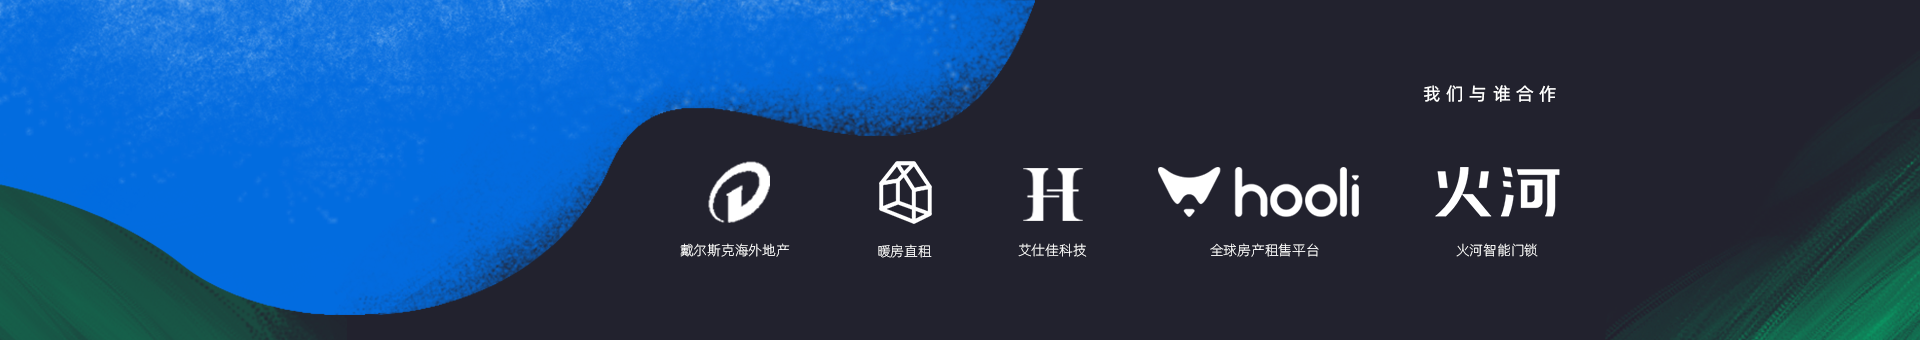
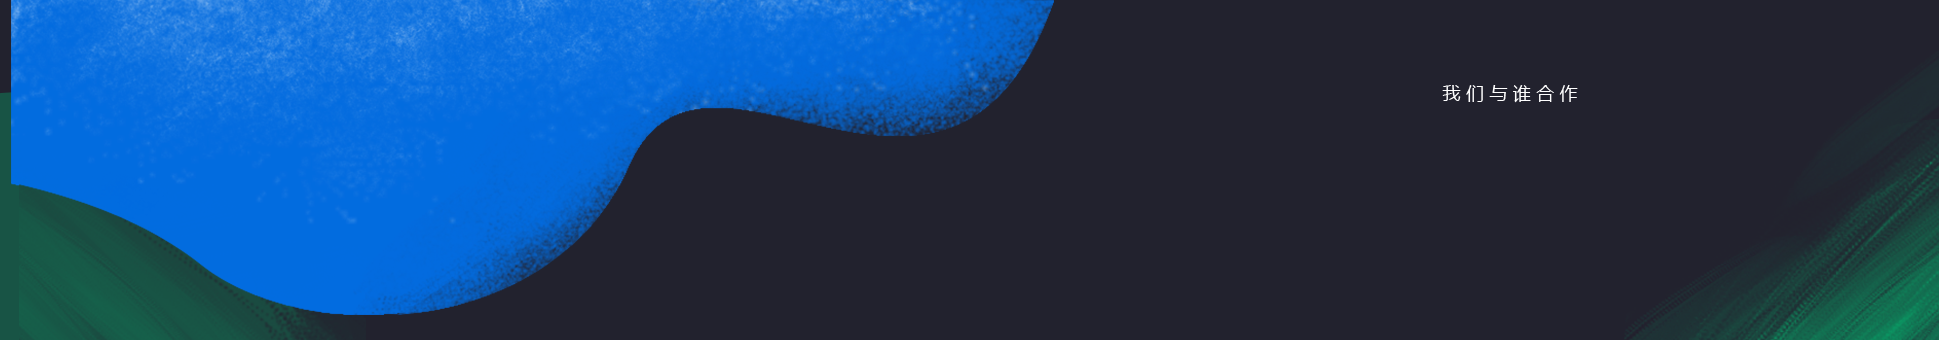
2019.09.02
修改bug

diff --git a/rangduju/src/components/top.js b/rangduju/src/components/top.js
@@ -1,4 +1,5 @@
 import React from 'react';
+import { Button } from 'antd';
 // import { Input } from 'antd';
 
 // const { Search } = Input;
@@ -11,11 +12,13 @@ class Top extends React.Component {
                     <div className="l_top">
                         <p className="title">让渡居 · 专业的短租解决方案</p>
                         <p className="label1">我们可以为您的房子赚取高出传统长租最多<strong>40%</strong>的收益方案</p>
+                        <p><a href="https://rangduju-ziyuan-1257675361.cos.ap-beijing.myqcloud.com/%E8%AE%A9%E6%B8%A1%E5%B1%85.mp4" rel="noopener noreferrer" target="_blank" className="play"><Button icon="play-circle">观看视频</Button></a></p>
                     </div>
                     <div className="left"><img src={require("../images/top.gif")} alt="动图"></img></div>
                     <div className="right">
                         <p className="title">让渡居 · 专业的短租解决方案</p>
                         <p className="label1">我们可以为您的房子<br />赚取高出传统长租最多<strong>40%</strong>的收益方案</p>
+                        <p><a href="https://rangduju-ziyuan-1257675361.cos.ap-beijing.myqcloud.com/%E8%AE%A9%E6%B8%A1%E5%B1%85.mp4" rel="noopener noreferrer" target="_blank" className="play"><Button icon="play-circle">观看视频</Button></a></p>
                         {/* <p className="label2">我们将提供从头到尾的一揽子服务</p> */}
                         {/* <Search
                             placeholder="搜索"
@@ -27,7 +30,15 @@ class Top extends React.Component {
                     </div>
                 </div>
                 <div className="bottom">
-                    <img src={require("../images/组10.png")} alt="合作方"></img>
+                    <ul className="dis-flex collaborate">
+                        <li><a href="https://nuan.io/hello-wechat" rel="noopener noreferrer" target="_blank"><img src={require("../images/nf.png")} className="nf" alt="暖房直租"></img></a></li>
+                        <li><a href="http://www.huohetech.com/" rel="noopener noreferrer" target="_blank"><img src={require("../images/he.png")} className="hh" alt="火河智能门锁"></img></a></li>
+                        <li><a href="http://www.hkhplus.com/index/platform" rel="noopener noreferrer" target="_blank"><img src={require("../images/as.png")} className="as" alt="艾仕佳科技"></img></a></li>
+                        <li><a href="http://www.hoolihome.com/" rel="noopener noreferrer" target="_blank"><img src={require("../images/hl.png")} className="hl" alt="全球房产租售平台"></img></a></li>
+                        <li><a href="http://www.delsk.com/" rel="noopener noreferrer" target="_blank"><img src={require("../images/de.png")} className="de" alt="戴尔斯克海外地产"></img></a></li>
+                    </ul>
+                    <img src={require("../images/组10.png")} alt="合作方" className="pc"></img>
+                    <img src={require("../images/hz.png")} alt="合作方" className="move"></img>
                 </div>
             </div>
         )

diff --git a/rangduju/src/common/common.css b/rangduju/src/common/common.css
@@ -126,8 +126,11 @@ a{
     .top{
         padding-top: 1rem!important;
     }
-    .top .right{
+    .top .right,.pc{
         display: none;
+    }
+    .top .move{
+        display: initial;
     }
     .top .l_top{
         display: initial!important;
@@ -146,6 +149,37 @@ a{
     }
     .top .left{
         width: 100%!important;
+    }
+    .top .bottom .collaborate{
+        flex-wrap: wrap;
+        width: 100%!important;
+        margin-right: 0!important;
+        margin-top: 20%!important;
+    }
+    .top .bottom .collaborate > li{
+        margin-left: 14%!important;
+    }
+    .top .bottom .collaborate .nf{
+        width: 2.5rem;
+        max-height: 4.125rem;
+    }
+    .top .bottom .collaborate .hh{
+        width: 5rem;
+        max-height: 4.125rem;
+    }
+    .top .bottom .collaborate .as{
+        width: 3.375rem;
+        max-height: 4.125rem;
+    }
+    .top .bottom .collaborate .hl{
+        width: 7.875rem;
+        max-height: 4.125rem;
+        margin-top: .2rem;
+    }
+    .top .bottom .collaborate .de{
+        width: 5.25rem;
+        max-height: 4.125rem;
+        margin-top: .2rem;
     }
     .operate .decorate{
         display: none;
@@ -311,7 +345,7 @@ a{
      margin-bottom: 6.25rem;
  }
 .evaluate > p{
-    width: 5rem;
+    width: 5.3rem;
     font-size: 1.25rem;
     font-weight:600;
     border-bottom: 1px solid rgba(77,77,77,0.1);
@@ -319,7 +353,11 @@ a{
 .first{
     font-size: .875rem;
 }
-.top .l_top{
+.top .play .ant-btn:hover,.ant-btn:focus{
+    color:#08Cf11!important;
+    border-color: #08Cf11!important;
+}
+.top .l_top,.move{
     display: none;
 }
 .top{
@@ -377,14 +415,29 @@ a{
 .top .bottom img{
     width: 100%;
 }
-
+.top .bottom > ul,li{
+    padding:0;margin:0;list-style:none
+}
+.top .bottom .collaborate{
+    position: absolute;
+    right: 0;
+    margin-top: 8.6%;
+    margin-right: 18%;
+    width: 46%;
+}
+.top .bottom .collaborate > li{
+    margin-left:8%; 
+}
+.top .bottom .collaborate > li > a > img{
+    height: 90%;
+}
 .opportunity{
     margin-top: 3.875rem;
 }
 .opportunity > p{
     font-size: 1.25rem;
     font-weight: 600;
-    width: 10rem;
+    width: 10.3rem;
     border-bottom: .0625rem solid rgba(77,77,77,0.1);
     margin-bottom: 2.875rem;
 }
@@ -421,7 +474,7 @@ a{
     font-size: 1.25rem;
     font-weight: 600;
     color: #4D4D4D;
-    width: 10rem;
+    width: 10.3rem;
     margin-left: 19%;
     border-bottom: 1px solid rgba(77,77,77,0.1);
     margin-top: 3.125rem;
@@ -470,7 +523,7 @@ a{
     width: 100%;
 }
 .dataAnalysis .title{
-    width: 11.25rem;
+    width: 11.5rem;
     font-size: 1.25rem;
     font-weight:600;
     margin: auto;

diff --git a/rangduju/src/common/infiniteListExample.js b/rangduju/src/common/infiniteListExample.js
@@ -49,20 +49,20 @@ render() {
                   房子位置和装修都很好，性价比很高，强烈推荐。
                   </p>
                   <p className="time">
-                    2019年7月
+                    2019年6月
                   </p>
                 </div>
                 </li>
               <li>
               <div>
                   <p className="title">
-                    <img src={require("../images/yonghu3.png")} alt="头像"></img>启蒙
+                    <img src={require("../images/yonghu3.png")} alt="头像"></img>Jie
                   </p>
                   <p className="text">
-                  房子非常干净漂亮~有梳妆台饭桌等等,虽然离地铁站不算太近,但是去故宫天坛颐和园这种常规景点一个小时之类就可以到｡地铁站旁边有购物商场麦当劳和必胜客,情侣闺蜜的最佳选择!楼下有水网便利店火锅店,买东西也很方便!之前因为有事更改了日期,房东立刻就和我沟通更改了预定日期,房东非常耐心好沟通呀!电视可以选电影看非常nice和男朋友度过了非常开心的六天!
+                  location:地理位置极佳,距离枣营地铁站走路4分钟,出行非常方便｡步行15分钟左右到达蓝港,此外离朝阳公园和国贸也很近｡ surroundings:周边配套设施完善,马路对面是京客隆大型超市､小型菜市场和水果店,楼下两家24小时便利店,也有理发店､打印店,楼下一番街和马路对面的日料店都值得一吃,赶时间也有麦当劳和煎饼果子｡附近就有麦子店派出所,非常安全｡ inside:所见即所得,房间内部整体舒适度很高,房间朝南,从早到晚一直有阳光｡空气净化器对咽炎患者非常友善,打开之后在出风口滴一滴香水房间会变香香的~ 值得一提的还有床垫,超级舒服｡大家共享两个卫生间,热水稳定,配有全自动洗衣机｡ neighbors:邻居都是年轻人,日常不会打扰到对方生活,晚上睡觉时间不会吵闹比较安静｡ 此外房东人也很好,中间多次沟通都及时回复,超级nice｡
                   </p>
                   <p className="time">
-                    2019年7月
+                    2019年6月
                   </p>
                 </div>
               </li>

diff --git a/rangduju/src/components/about.js b/rangduju/src/components/about.js
@@ -8,6 +8,8 @@ class About extends React.Component{
                     <span className="title">让渡居是一家数字科技驱动的城市民宿管理服务机构</span>
                     <p className="synopsis">我们致力于提供专业的城市民宿管理方案，在营造安全、快捷、舒心、可靠的居住体验的同时，为客户创造长期领先于市场表现的经济回报。让渡居珍视每一位合作伙伴，并将共同努力，携手营造一流的新型城市民宿。<a href="https://mp.weixin.qq.com/s/n2C2IPwmw1zpEMuDDIUD3A" rel="noopener noreferrer" target="_blank">了解更多>></a></p>
                 </div>
+                {/* <div className="distance"><iframe className="airtable-embed" src="https://airtable.com/embed/shrRfme06EYHbf6qB?backgroundColor=yellowLight&viewControls=on" frameborder="0" onmousewheel="" width="100%" height="533" style={{background:'transparent',border:'1px solid #ccc'}}></iframe></div> */}
+                {/* <iframe className="airtable-embed" src="https://airtable.com/embed/shrRfme06EYHbf6qB?backgroundColor=yellowLight&layout=card&viewControls=on" frameborder="0" onmousewheel="" width="100%" height="533" style={{background:'transparent',border:'1px solid #ccc'}}></iframe> */}
                 <div className="exhibition dis-flex">
                     <div className="group1">
                         <div><img src={require("../images/tu1.png")} alt="图1"></img></div>

diff --git a/rangduju/public/index.html b/rangduju/public/index.html
@@ -61,6 +61,8 @@
   <meta name="viewport" content="width=device-width, initial-scale=1" />
   <meta name="theme-color" content="#000000" />
   <meta name="description" content="Web site created using create-react-app" />
+  <meta name="keywords" content="短租,房屋出租,租房,房产管理" />
+  <meta name="description" content="数字科技驱动的城市民宿管理服务机构。我们致力于提供专业的城市民宿管理方案，在营造安全、快捷、舒心、可靠的居住体验的同时，为客户创造长期的经济回报。"/>
 
   <link rel="apple-touch-icon" href="logo192.png" />
   <!--
@@ -80,7 +82,7 @@
   <title>让渡居</title>
 </head>
 
-<body>
+<body ondragstart="window.event.returnValue=false;return false;" oncontextmenu="window.event.returnValue=false;return false;" onselectstart="event.returnValue=false;return false;">
   <noscript>You need to enable JavaScript to run this app.</noscript>
   <div id="head"></div>
   <!-- <div id="root"></div> -->

diff --git a/rangduju/src/components/foot.js b/rangduju/src/components/foot.js
@@ -19,8 +19,8 @@ class Foot extends React.Component {
                         </a>
                         </label>
                     <label>
-                    <a href="https://www.zhipin.com/gongsi/7129188de810def203N_3d65EQ~~.html?ka=search_list_company_1_custompage" rel="noopener noreferrer" target="_blank">
-                        BOSS直聘
+                    <a href="https://www.ciweishixi.com/company/detail-28377.html" rel="noopener noreferrer" target="_blank">
+                        刺猬实习
                         </a>
                         </label>
                 </div>
